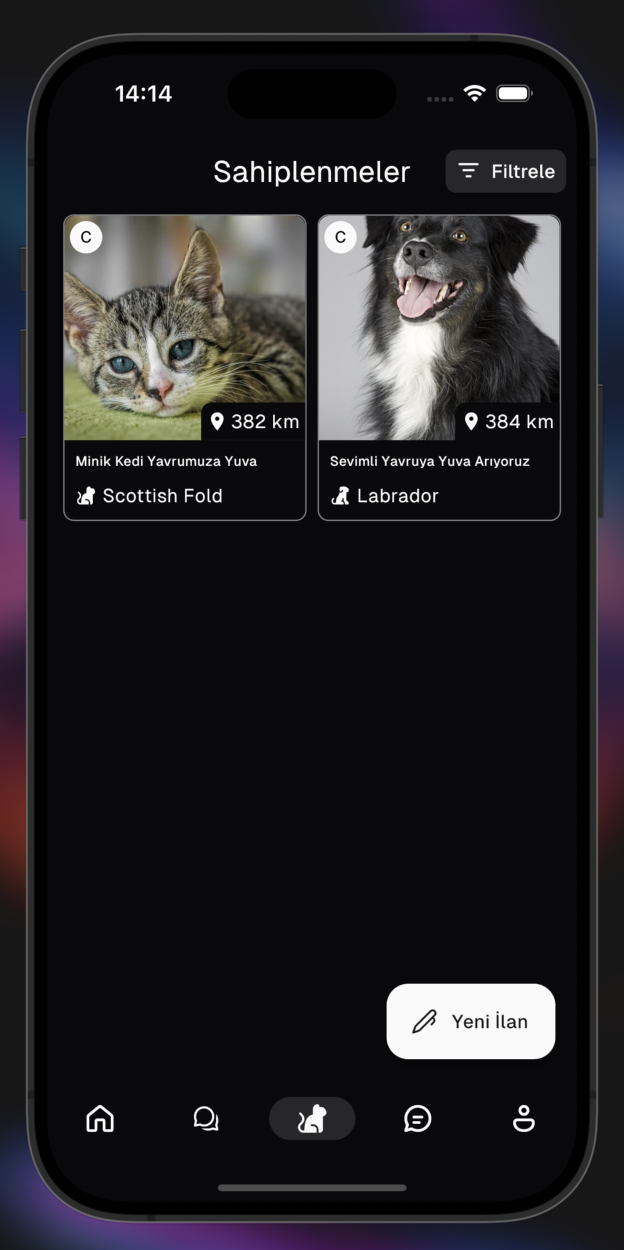
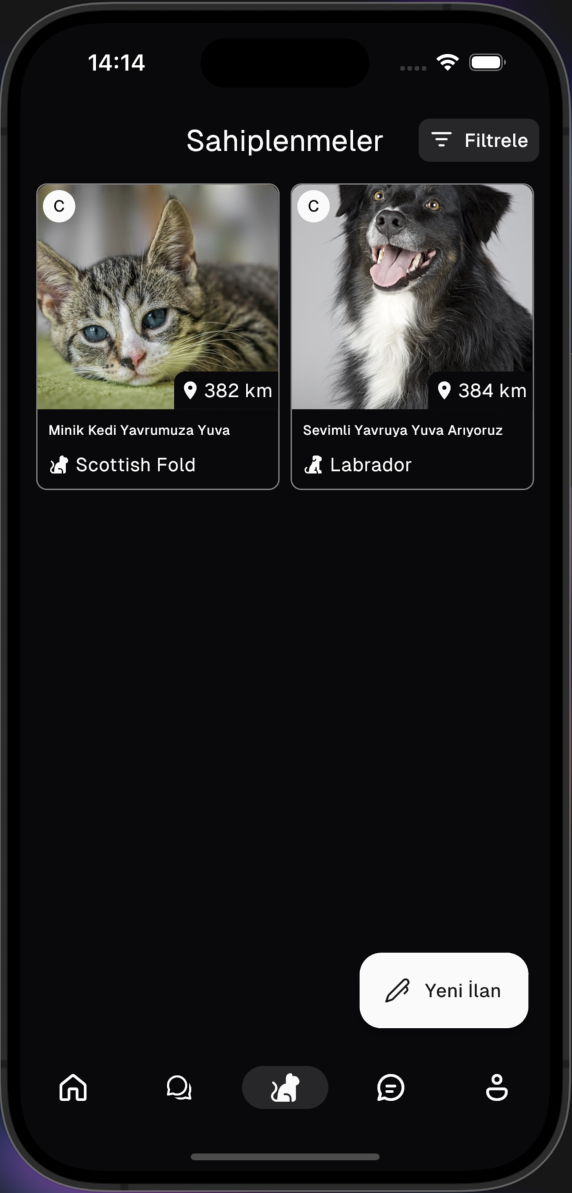
fix styles

Changed region(s): [[0.0, 0.0, 1.0, 1.0], [0.2972, 0.8684, 0.3566, 0.9304]]

diff --git a/src/styles/main.css b/src/styles/main.css
@@ -110,8 +110,8 @@ main {
 }
 
 .app-screenshot {
-    width: 360px;
-    border-radius: 32px;
+    width: 320px;
+    border-radius: 58px;
 }
 
 footer {
